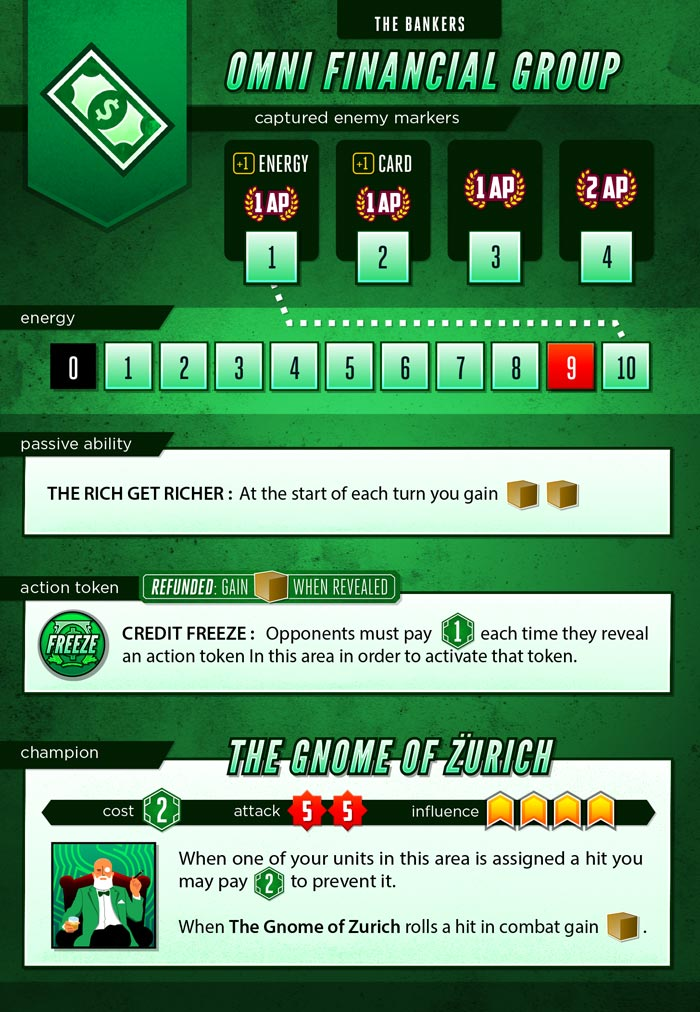
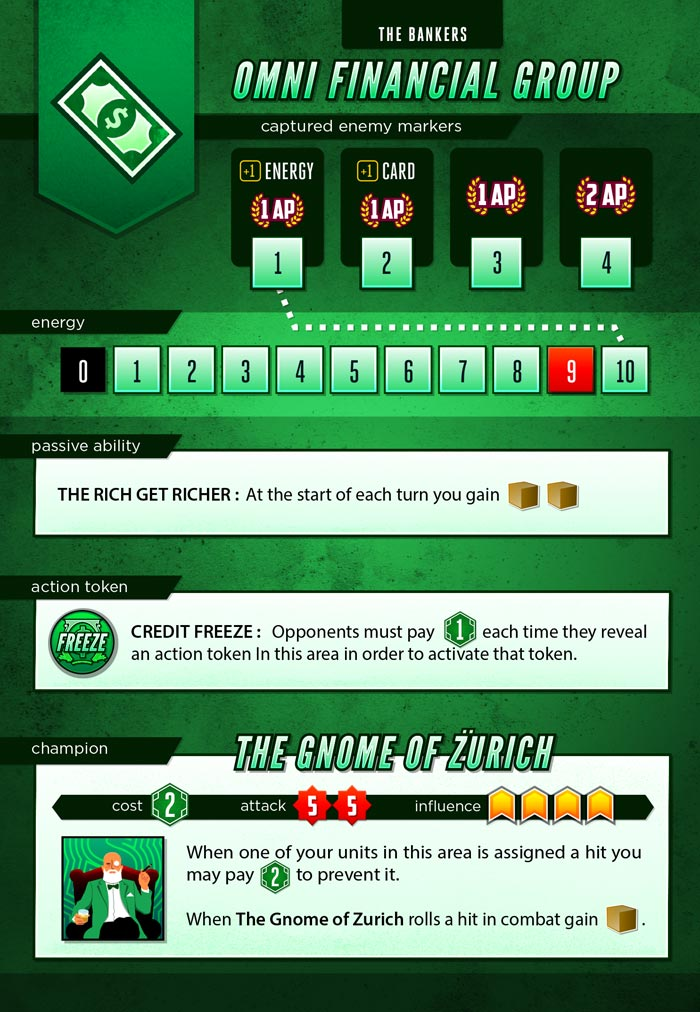
Refactor spiders free from web, remove resource from freeze, and return conquestadors max energy to default

Changed region(s): [[0.0, 0.0, 1.0, 0.9802]]

diff --git a/server/classes/factions/Society.js b/server/classes/factions/Society.js
@@ -7,6 +7,7 @@ class Society extends Faction {
     constructor( owner, game ) {
         super( owner, game );
 
+        // triggers
         this.triggers = {
             "onCleanUp" : "setXavierTokenLocation"
         };
@@ -101,17 +102,32 @@ class Society extends Faction {
     }
 
 
+    /**
+     * Process faction upgrade
+     *
+     * @param upgrade
+     */
     processUpgrade( upgrade ) {
         this.upgradeVariableTokens( upgrade, this.data.words );
     }
 
 
+    /**
+     * Place henchman when we deploy Xavier to an area
+     *
+     * @param event
+     */
     placeHenchman( event ){
         let henchman = this.data.units.find( unit => unit.type === 'henchman' && !unit.killed );
         if( henchman ) henchman.location = event.unit.location;
     }
 
 
+    /**
+     * Clear Xavier's token (triggered when he's killed)
+     *
+     * @param event
+     */
     clearXavierToken( event ){
         let xavier = this.getXavier();
         if( !xavier.token ) return;
@@ -121,28 +137,46 @@ class Society extends Faction {
     }
 
 
+    /**
+     * Reveal, and optionally activate the token on Xavier
+     *
+     * @param player
+     */
     takeXavierAction( player ){
         let xavier = this.getXavier();
         let token = this.game().objectMap[ xavier.token.id ];
         let area = this.game().areas[ xavier.location ];
 
+        // move this token to xavier's area
         token.location = area.name;
-
         area.data.tokens.push( token );
+
+        // null xavier's token property
         xavier.token = null;
 
         this.message({ message: "Reveals the token on Xavier Blackstone", faction : this });
+
+        // resolve xavier's token
         this.game().takeTokenAction( player, token.id );
     }
 
 
+    /**
+     * Return xavier blackstone's unit object
+     *
+     * @returns {object}
+     */
     getXavier(){
         return this.data.units.find( unit => unit.type === 'champion' );
     }
 
 
+    /**
+     * Set the token placed on xavier back to having its location as "xavier" instead of null
+     * which happens automatically during cleanup. This allows us to keep the token on xavier
+     * at the end of the turn instead of returning it to our reserves
+     */
     setXavierTokenLocation(){
-        //this.data.tokensNotDiscarded = 0;
         let xavier = this.getXavier();
         if( xavier && xavier.token ){
             xavier.token.location = 'xavier';
@@ -150,9 +184,15 @@ class Society extends Faction {
     }
 
 
+    /**
+     * Our start of turn prompt
+     *
+     * @returns {string}
+     */
     startOfTurnPrompt() {
         return 'deploy-xavier';
     }
+
 
 
     async resolveStartOfTurn( player, area ){

diff --git a/server/classes/factions/Spiders.js b/server/classes/factions/Spiders.js
@@ -185,19 +185,29 @@ class Spiders extends Faction {
         let player, data;
 
         return this.game().promise({ players: faction.playerId, name: 'free-units', data : {} })
-            .then( async ([player, data]) => {
-                let areas = data.areas;
+            .then( async ([player, data]) => this.handleFreeFromWebsResponse( player, data, faction ) );
+    }
 
-                // if that player didn't choose an areas, clear their prompt and return
-                if( ! areas.length ) {
-                    this.game().message({ faction : faction, message : `units remain trapped in webs` });
-                    player.setPrompt({ active : false, updatePlayerData : true });
-                    return;
-                }
 
-                // otherwise resolve freeing the units from webs
-                this.resolveFreeFromWebs( faction, areas, player );
-            });
+    /**
+     * Handle the response from our free from webs prompt
+     *
+     * @param player
+     * @param data
+     * @param faction
+     */
+    async handleFreeFromWebsResponse( player, data, faction ){
+        let areas = data.areas;
+
+        // if that player didn't choose an areas, clear their prompt and return
+        if( ! areas.length ) {
+            this.game().message({ faction : faction, message : `units remain trapped in webs` });
+            player.setPrompt({ active : false, updatePlayerData : true });
+            return;
+        }
+
+        // otherwise resolve freeing the units from webs
+        this.resolveFreeFromWebs( faction, areas, player );
     }
 
 

diff --git a/server/classes/factions/Conquistadors.js b/server/classes/factions/Conquistadors.js
@@ -16,7 +16,6 @@ class Conquistadors extends Faction {
         this.data.name = this.name;
         this.data.title = "Los Conquistadores";
         this.data.focus = 'areas-conquered-focus';
-        this.data.maxEnergy = 8;
         this.data.bonusDeploy = {type: 'goon', count: 10};
         this.data.bonusDiceInUnconquered = 0;
         this.data.conqueredAreas = [];

diff --git a/server/classes/factions/Bankers.js b/server/classes/factions/Bankers.js
@@ -26,7 +26,6 @@ class Bankers extends Faction {
                 influence: 1,
                 cost : 0,
                 activateTax : true,
-                resource: true,
                 areaStat : true,
                 description : 'enemy players must pay 1 to activate a token here',
                 req : "Passive token: this token may always be activated"
